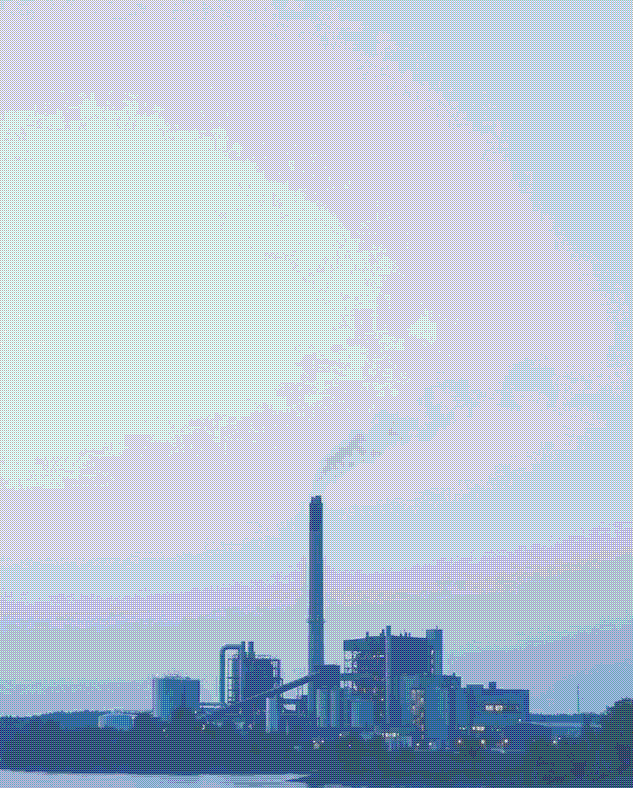
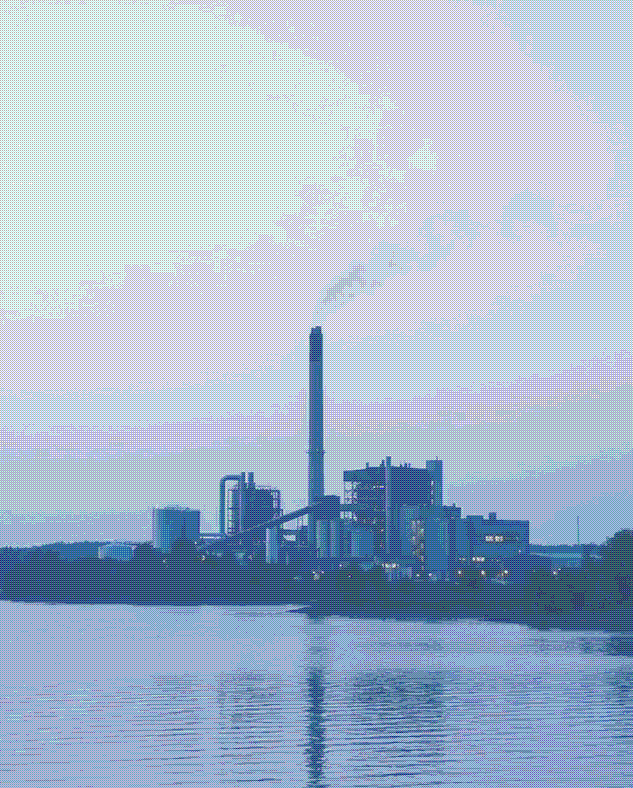
home: foto do carbono 10% mais para cima (corrige a rodada anterior, que desceu)

diff --git a/index.html b/index.html
@@ -2579,7 +2579,7 @@ body>*{position:relative;z-index:1}
     <!-- 29/09: A TIRA DA HOME e esta, com as quatro fotos feitas no Google Flow, no filtro em cor. A anterior (energia, industria, etica-auditoria, lago-industria -cor-qc) saiu do HTML; os arquivos ficam em img/. -->
     <div class="sh-tira sh-tira--flow">
       <article class="sh-col sh-col--carbono">
-        <img class="sh-foto" src="img/flow-carbono-cor-bayer-fl.webp?v=29092026g" data-lum="img/flow-carbono-cor-fl.webp?v=29092026g" alt="" loading="eager" decoding="sync" fetchpriority="high">
+        <img class="sh-foto" src="img/flow-carbono-cor-bayer-fl.webp?v=29092026h" data-lum="img/flow-carbono-cor-fl.webp?v=29092026h" alt="" loading="eager" decoding="sync" fetchpriority="high">
         <div class="sh-conteudo">
           <div>
             <span class="sh-indice">[ 01 ]</span>
